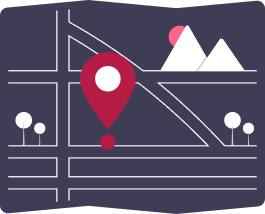
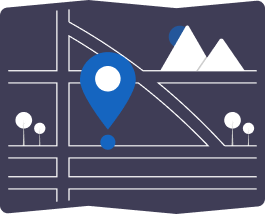
feat: Feito tudo completinho

Changed region(s): [[0.3019, 0.2243, 0.5132, 0.7009], [0.634, 0.1121, 0.6943, 0.2243]]

diff --git a/event/src/pages/listagemDeEvento/ListagemDeEvento.jsx b/event/src/pages/listagemDeEvento/ListagemDeEvento.jsx
@@ -88,20 +88,22 @@ const ListagemDeEvento = () => {
         try {
             // console.log("aaaaaaa");
             
-            if (presenca && idPresenca !== "") {
+            if (presenca && idPresenca !== "") { 
                 //atualizacao: para FALSE
-                await api.put(`PresencasEventos/${idPresenca}`,{situacao: false});
-                Swal.fire('Removido!', 'Sua presença foi removida.', 'success');
-            } else if (idPresenca !== ""){
+                await api.put(`PresencasEventos/${idPresenca}`, {situacao: false});
+                Swal.fire('Removido!', 'Sua presença foi removida.', 'error');  
+
+                
+            } else if (idPresenca && idPresenca){
                 //atualizacao: situacao TRUE
-                await api.put(`PresencasEventos/${idPresenca}`, {situacao: true});
-                Swal.fire('Confirmado!', 'Sua presença foi confirmada.', 'success');
+                await api.put(`PresencasEventos/${idPresenca}`,{situacao: true});
+                
+                Swal.fire('Confirmada!', 'Sua presença foi confirmada.', 'success');
             }else{
                 //cadastrar uma nova presenca
                 await api.post("PresencasEventos", {situacao: true, idUsuario: usuario.idUsuario, idEvento: idEvento });
                 Swal.fire('Confirmado!', 'Sua presenca foi confirmada.', 'success');
             }
-
             listarEvento(); 
 
         } catch (error) {
@@ -110,24 +112,19 @@ const ListagemDeEvento = () => {
         }
     }
 
-    function filtrarEventos() {
-        //define a data de hoje
-        const hoje = new Date();
+   function filtrarEventos() {
+    const hoje = new Date();
 
-        return listaEvento.filter(evento => {
-            const dataevento = new Date(evento.dataevento);
+    return listaEvento.filter(evento => {
+      const dataEvento = new Date(evento.dataEvento);
 
-            if (filtroData.includes("todos")) return true; 
-            if (filtroData.includes("futuros") && dataevento > hoje)
-            return true; 
-        if (filtroData.includes("passados") && dataevento < hoje) 
-            return true;
+      if (filtroData.includes("todos")) return true;
+      if (filtroData.includes("futuros") && dataEvento > hoje) return true;
+      if (filtroData.includes("passados") && dataEvento < hoje) return true;
 
-            return false;
-        });
-
-        
-    }
+      return false;
+    });
+  }
 
 
     return (
@@ -162,7 +159,7 @@ const ListagemDeEvento = () => {
                                 </tr>
                             </thead>
                             <tbody>
-                                {filtrarEventos() && filtrarEventos().map((item) => (
+                                {filtrarEventos().map((item) => (
                                     <tr className="itens">
                                         <td data-cell="Titulo">{item.nomeEvento}</td>
                                         <td data-cell="Data">{item.dataEvento ? format(new Date(item.dataEvento), "dd/MM/yyyy", { locale: ptBR }) : ""}
@@ -177,8 +174,10 @@ const ListagemDeEvento = () => {
                                         </button>
                                         </td>
                                         <td data-cell="Participar">
-                                            <Toggle presenca={item.possuiPresenca} 
-                                            metodo = {() => manipularPresenca(item.idEvento, item.presenca, item.idPresenca)}/>
+                                            <Toggle 
+                                            presenca={item.possuiPresenca} 
+                                            metodo = {() => manipularPresenca(item.idEvento, item.possuiPresenca, item.idPresenca)}
+                                            />
                                         </td>
                                     </tr>
                                 ))

diff --git a/event/src/components/modal/Modal.jsx b/event/src/components/modal/Modal.jsx
@@ -2,12 +2,14 @@ import React, { useEffect, useState } from 'react'
 import ImgDeletar from '../../assets/img/Vector (5).png';
 import "./Modal.css";
 import api from "../../Services/services"
+import { useAuth } from '../../contexts/AuthContext';
 
  const Modal = (props) => {
 
  const [comentarios, setComentarios] = useState([]);
  const [novoComentario, setNovoComentario] = useState("");
- const [usuarioId, setUsuariId] = useState("91444B5C-A2C0-4AA3-B866-FCC6D508B6C8");
+ 
+ const {usuario} = useAuth();
 
  async function listarComentario() {
     try {
@@ -21,15 +23,16 @@ import api from "../../Services/services"
 
 useEffect(() => {
     listarComentario();
-}, [props.idEvento])
+}, [])
 
  async function cadastrarComentario(comentario) {
     try {
         await api.post("ComentariosEventos",{
-            idUsuario: usuarioId,
+            idUsuario: usuario.idUsuario,
             idEvento: props.idEvento,
             descricao: comentario
         })
+        listarComentario();
     } catch (error) {
         console.log(error);
     }
@@ -38,6 +41,7 @@ useEffect(() => {
  async function deletarComentario(idComentario) {
     try {
         await api.delete(`ComentariosEventos/${idComentario}`);
+        listarComentario();
     } catch (error) {
         console.log(error);
         

diff --git a/event/src/components/header/Header.jsx b/event/src/components/header/Header.jsx
@@ -26,12 +26,16 @@ const Header = (props) => {
 
             <nav className="nav_img" style={{ display: props.visibilidade}}>
                 <div className="adm">
-                <a href="#">{props.tituloHeader}<img src= {Vector} alt="portinha"/></a>
+                {/* <a href="">{props.tituloHeader}<img src= {Vector} alt="portinha"/></a> */}
+                <Link to="/Home"><img src= {Vector} alt="portinha"/></Link>
                 </div>
             </nav>
 
             <div className="login" style={{ display: props.botao_logar }}>
-                <Link href="" to="/" className="logar">Logar</Link>
+                {/* <Link href="" to="/">Logar</Link> */}
+                <button className="logar">
+                    Logar
+                </button>
             </div>
 
         </div>

diff --git a/event/src/pages/home/Home.css b/event/src/pages/home/Home.css
@@ -50,7 +50,7 @@
 .item {
     width: 250px;
     height: 250px;
-    border: solid #b51d44 2px;
+    border: solid #1565c0 2px;
     border-radius: 5px;
     padding: 30px;
     margin-bottom: 60px;
@@ -75,7 +75,7 @@
     border: none;
     background-color: white;
     font-size: 18px;
-    color: #B51D44;
+    color: #1565c0;
 }
 
 .visao img {

diff --git a/event/src/components/header/Header.css b/event/src/components/header/Header.css
@@ -68,3 +68,18 @@ header{
     
 }
 
+
+.login{
+    display: flex;
+    align-items: center;
+    margin-top: 15px;
+}
+.logar{
+    color: white;
+    text-decoration: none;
+    background-color: #1565c0;
+     width: 115px;
+    height: 45px;
+    border-radius: 5px;
+}
+

diff --git a/event/src/components/toggle/Toggle.css b/event/src/components/toggle/Toggle.css
@@ -40,12 +40,12 @@
 }
 
 input:checked + .slider {
-  background-color: #B51D44;
+  background-color: #1565c0;
   
 }
 
 input:focus + .slider {
-  box-shadow: 0 0 1px #B51D44;
+  box-shadow: 0 0 1px #1565c0;
 }
 
 input:checked + .slider:before {
